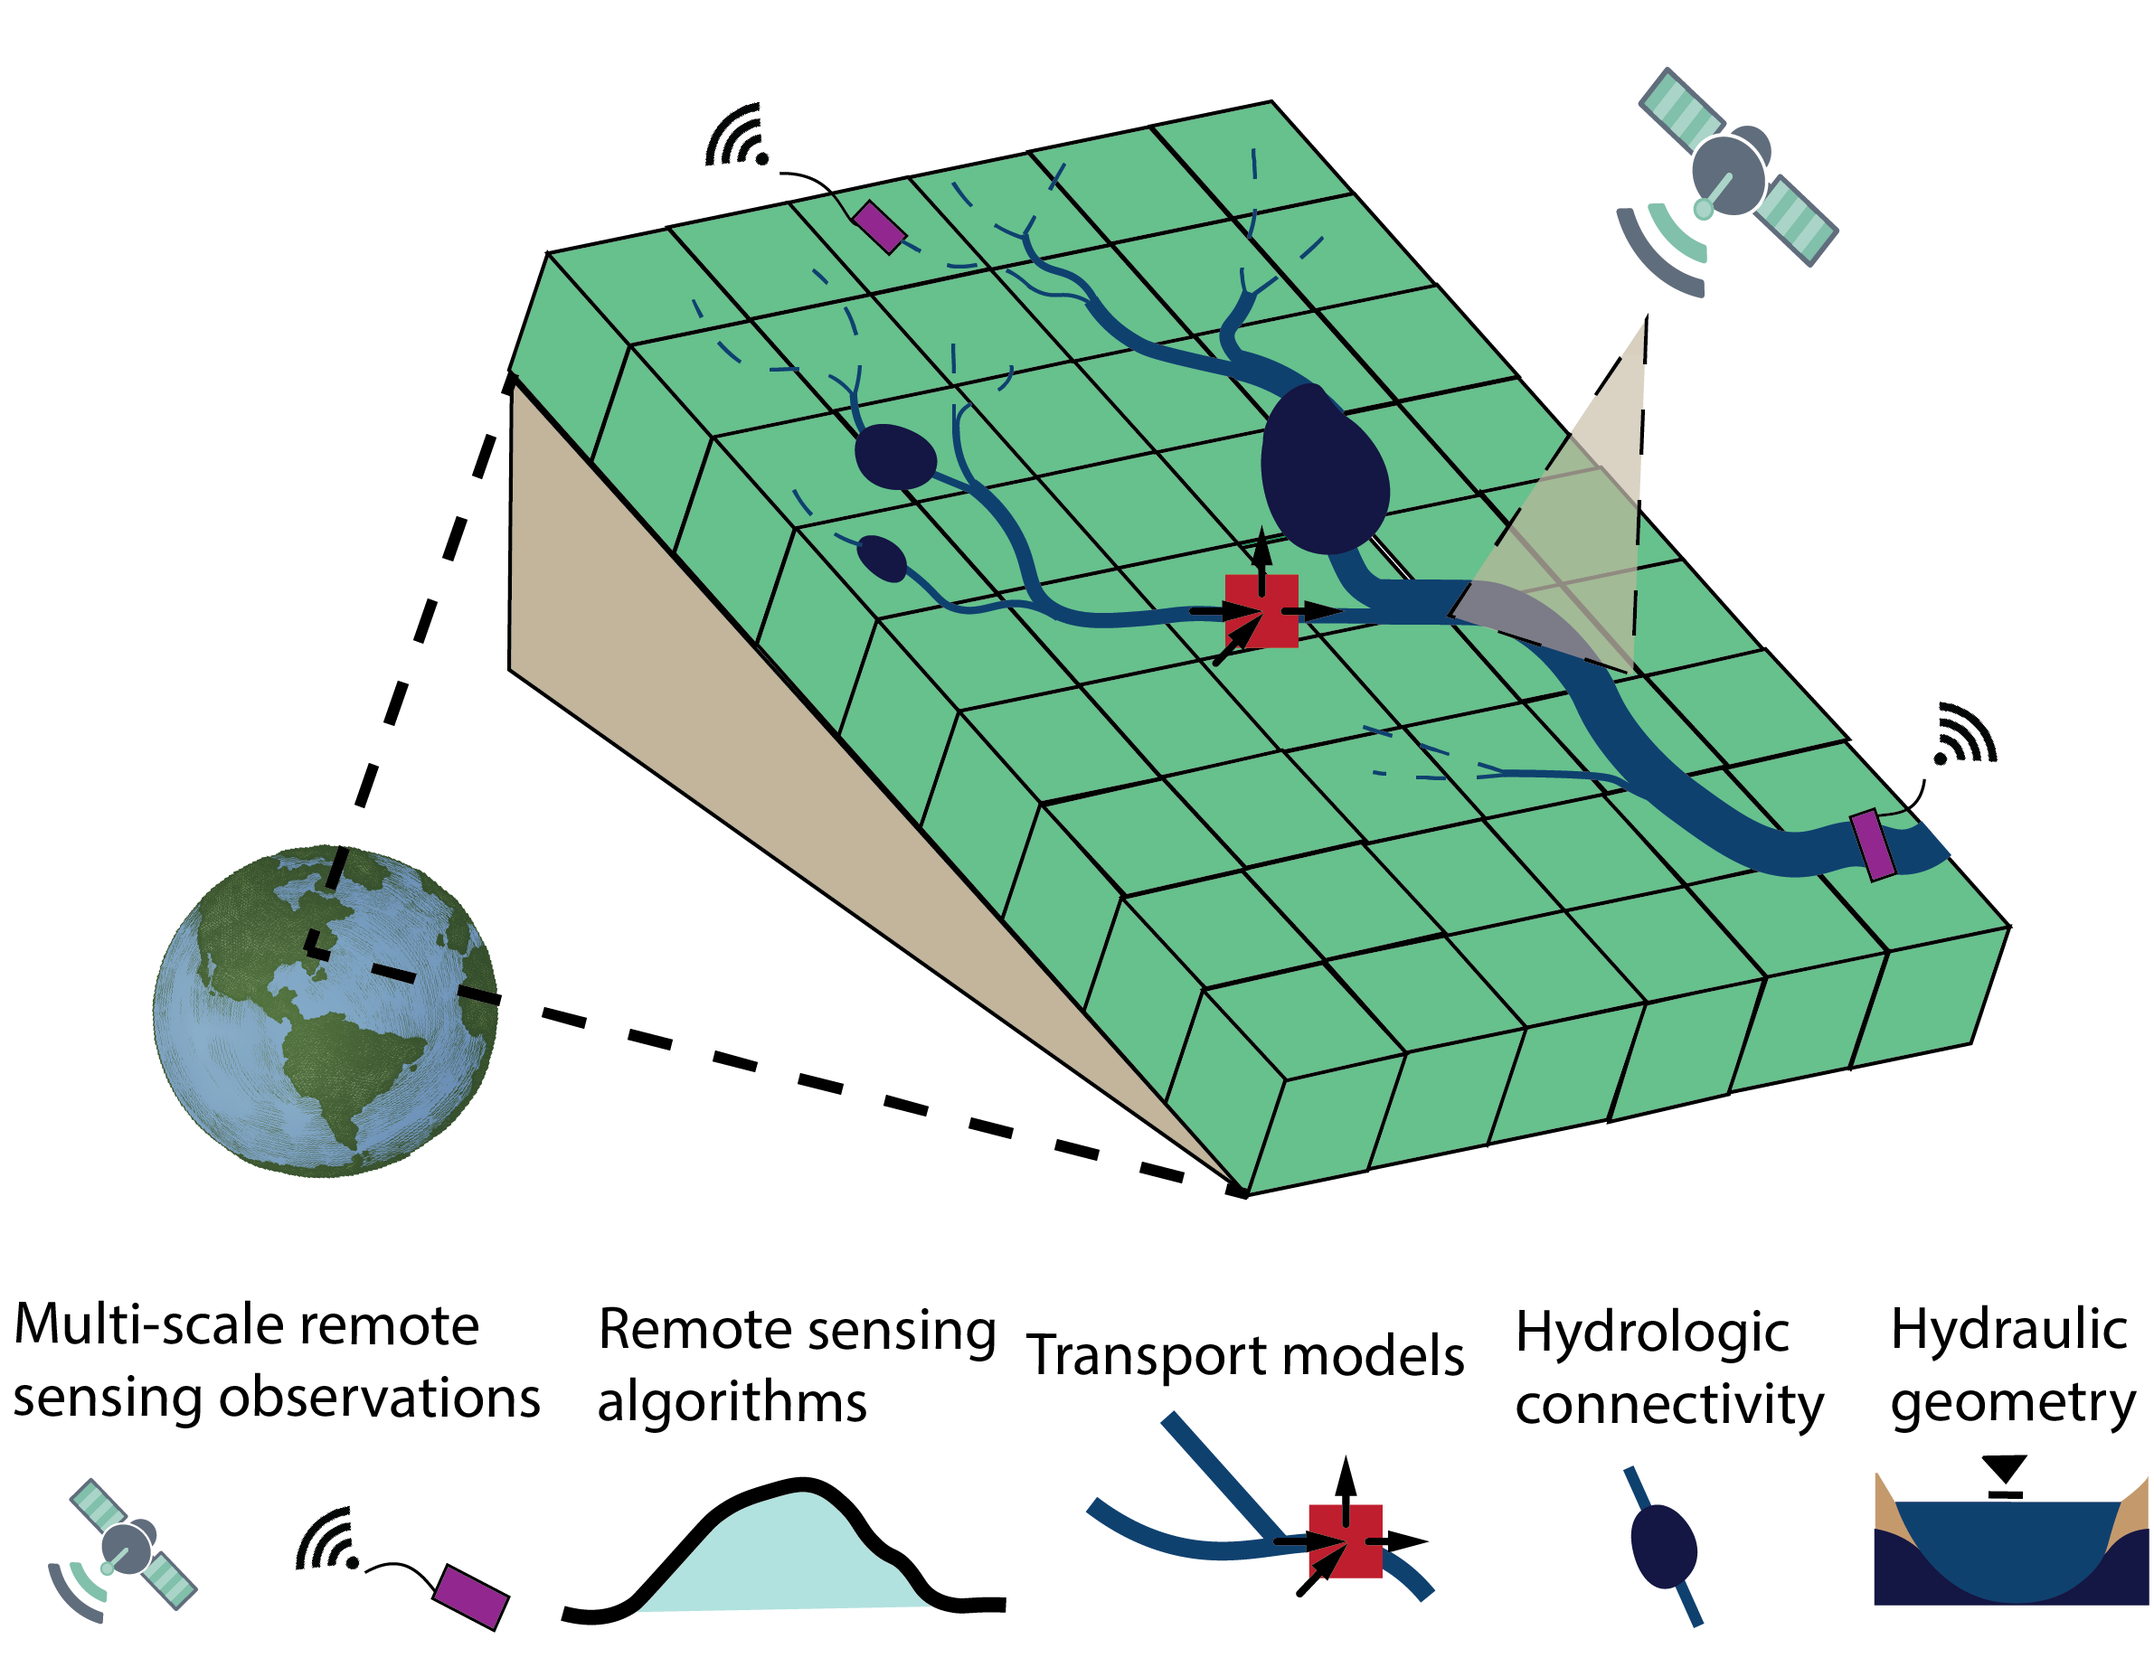
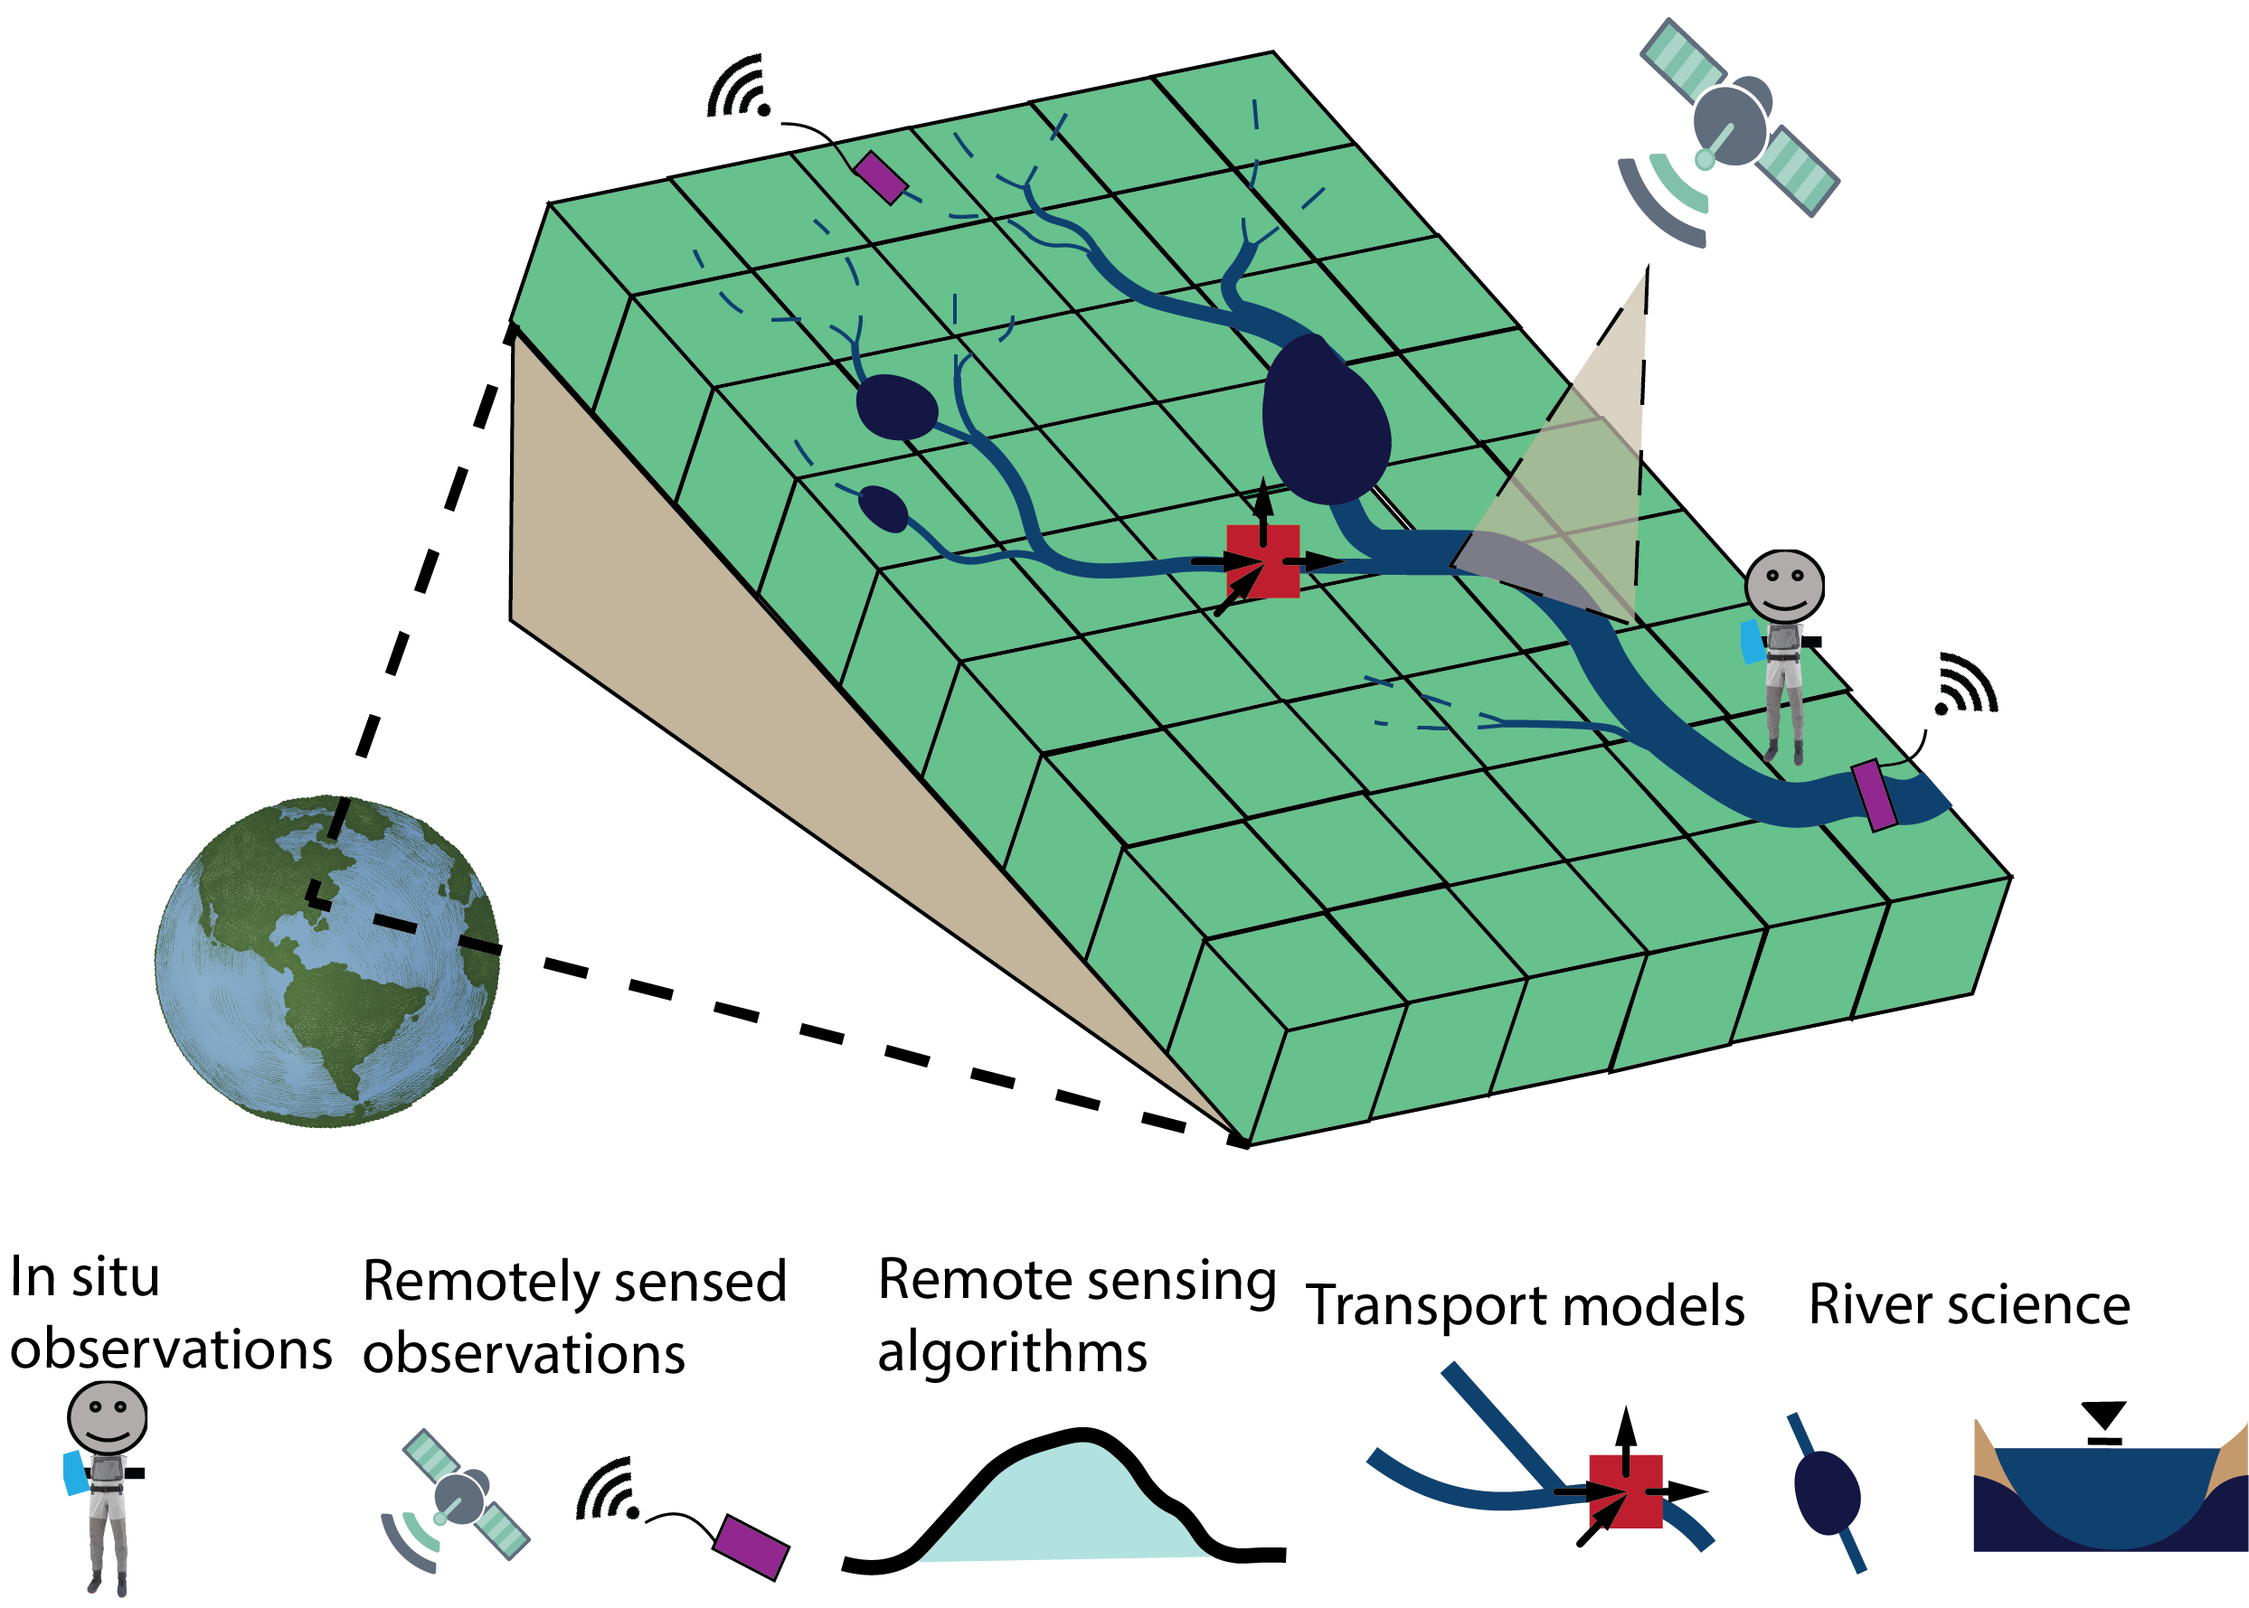
updated research page

diff --git a/content/research/index.html b/content/research/index.html
@@ -10,10 +10,10 @@ output: html_document
 <center>
 <img src="stream_to_ocean_observation_system_vector.png" />
 <p>
-2023 ©craigbrinkerhoff
+2024 ©craigbrinkerhoff
 </p>
 </center>
-<p>Drainage networks are the arteries of the continents, an interconnected network of rivers, streams, lakes, reservoirs, wetlands, and more that drain the land surface and transport water, sediments, nutrients, and other ‘stuff’ downstream or to the atmosphere. Sustainable management of global freshwater resource issues requires not only a knowledge of hydroclimatic processes across a range of scales, but also the toolkit (models, remote monitoring networks, and computational frameworks) to explore potential solutions. My work seeks to build this toolkit by taking a broad, cross-disciplinary approach to surface hydrology. I develop and combine (1) remote sensing algorithms, (2) numerical transport models, and (3) hydrological connectivity and hydraulic geometry theories to better understand global surface water and nutrient cycling. <strong>Approaching global hydrology and biogeochemistry this way (through the lens of multidisciplinary river science) provides a framework- and the computational toolkit- necessary to sustainably manage global freshwater resources.</strong></p>
+<p>Drainage networks are the arteries of the continents, an interconnected network of rivers, streams, lakes, reservoirs, wetlands, and more that drain the land surface and transport water, nutrients, and other ‘stuff’ downstream or to the atmosphere. Sustainable management of global freshwater resources requires not only a knowledge of hydroclimatic processes across a range of scales, but also the tools (models, computational frameworks, and river science theories) to explore potential solutions. To achieve this, my work takes a broad, cross-disciplinary approach to surface hydrology. I develop and combine (1) remote sensing algorithms, (2) numerical transport models, (3) syntheses of large in situ databases, and (4) river science theories to better understand global surface water and nutrient cycling. <strong>Approaching global hydrology this way (through the lens of multidisciplinary river science) provides a framework for taking the pulse of the world’s rivers to better inform water resources science and management.</strong></p>
 <hr />
 <div id="measuring-rivers-from-space" class="section level2">
 <h2>Measuring rivers from space</h2>
@@ -23,8 +23,8 @@ output: html_document
 <li><strong>Representative papers:</strong>
 <ul>
 <li><a href="https://doi.org/10.1029/2020WR027949">Constraining remote river discharge estimation using reach-scale geomorphology</a></li>
-<li><a href="https://doi.org/10.1016/j.rse.2023.113489">Inversion of river discharge from remotely sensed river widths: A critical assessment at three-thousand global river gauges</a></li>
 <li><a href="https://doi.org/10.1029/2022GB007419">Remotely sensing river greenhouse gas exchange velocity using the SWOT satellite</a></li>
+<li><a href="https://doi.org/10.1029/2021WR031614">A Framework for Estimating Global River Discharge From the Surface Water and Ocean Topography Satellite Mission</a></li>
 </ul></li>
 </ul>
 </div>
